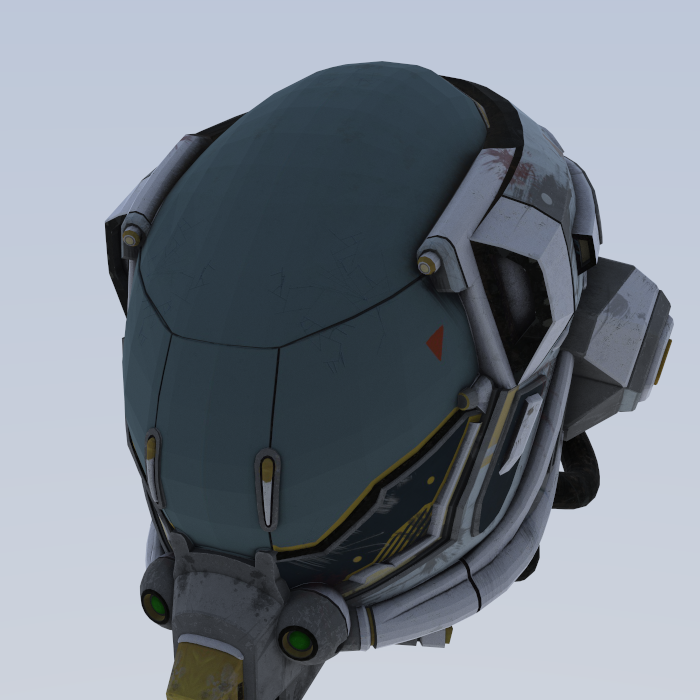
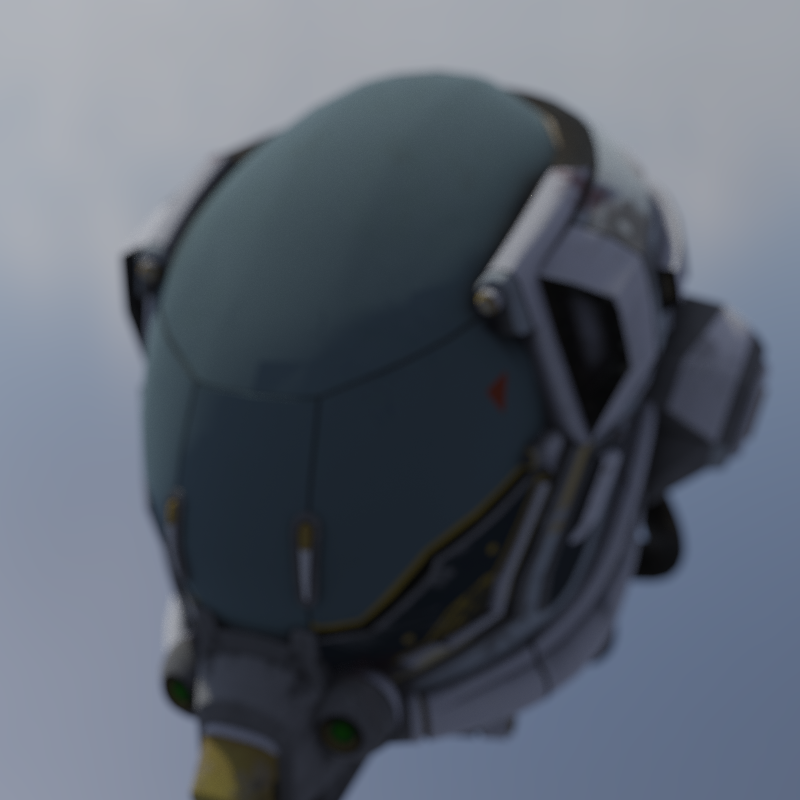
CLI depth-of-field overrides + env-lit glTF hero renders (#17)
Adds `--aperture` and `--focus-dist` flags to `prime`, overriding the scene
camera (the thin-lens DOF was already in the renderer; auto-framed glTF cameras
had no way to set it). Focus defaults to the look-at distance, so `--aperture`
alone puts the subject in focus and blurs the rest.

Re-renders the glTF gallery images as finished shots: the Khronos Damaged Helmet
and Duck under a Poly Haven HDRI environment (`--env`, importance-sampled on the
CPU) with depth of field. README documents the env + DOF workflow.

diff --git a/crates/prime-cli/src/main.rs b/crates/prime-cli/src/main.rs
@@ -90,6 +90,15 @@ struct Args {
     /// Rotate the environment map about the vertical axis (degrees).
     #[arg(long, default_value_t = 0.0)]
     env_rotation: Float,
+
+    /// Lens aperture for depth of field (0 = pinhole). Overrides the scene's
+    /// camera; larger values blur more.
+    #[arg(long)]
+    aperture: Option<Float>,
+
+    /// Focus distance for depth of field (defaults to the look-at distance).
+    #[arg(long)]
+    focus_dist: Option<Float>,
 }
 
 #[derive(Copy, Clone, Debug, ValueEnum)]
@@ -120,6 +129,14 @@ fn main() -> Result<()> {
     let aspect = args.width as Float / args.height as Float;
     let mut scene = load_scene(&args.scene, aspect)
         .with_context(|| format!("loading scene '{}'", args.scene))?;
+
+    // Optional camera overrides (e.g. depth of field on an auto-framed glTF).
+    if let Some(aperture) = args.aperture {
+        scene.camera.aperture = aperture;
+    }
+    if let Some(focus) = args.focus_dist {
+        scene.camera.focus_dist = Some(focus);
+    }
 
     if let Some(env_path) = &args.env {
         let env = load_env(env_path, args.env_intensity, args.env_rotation.to_radians())

diff --git a/README.md b/README.md
@@ -152,6 +152,8 @@ SCENE                     built-in (showcase, studio, rtweekend, sky, textured,
     --env <FILE.hdr>      equirectangular HDR environment (image-based lighting)
     --env-intensity <F>   scale env radiance                    [default: 1.0]
     --env-rotation <DEG>  spin the env about the vertical axis  [default: 0]
+    --aperture <F>        lens aperture for depth of field      [default: scene]
+    --focus-dist <F>      focus distance                        [default: look-at]
 ```
 
 ---
@@ -247,17 +249,23 @@ glTF metallic-roughness materials onto Prime's BSDFs, and decodes base-color
 textures. Prime's material model is intentionally small, so the mapping is an
 approximation (base color + metallic/roughness/emissive *factors* and the
 base-color *texture*; metallic-roughness/normal/emissive maps and transmission
-are not represented). Models are lit by a neutral sky gradient and auto-framed.
+are not represented). Models are auto-framed; pair them with an HDRI environment
+(`--env sky.hdr`) and depth of field (`--aperture`) for a finished look:
 
-The renders below are the [Khronos sample
+```bash
+prime DamagedHelmet.glb --env kloofendal.hdr --aperture 0.045 -s 1024 --tonemap reinhard
+```
+
+The renders below are [Khronos sample
 models](https://github.com/KhronosGroup/glTF-Sample-Models) (Damaged Helmet,
-Duck), path-traced on the GPU and validated against the CPU (RMSE 0.5–0.9% at
-256 spp). Sample assets aren't bundled — point Prime at your own `.glb`.
+Duck) under a [Poly Haven](https://polyhaven.com) HDRI with depth of field. (glTF
+also renders on the GPU, validated against the CPU at RMSE 0.5–0.9% @ 256 spp.)
+Sample assets aren't bundled — point Prime at your own files.
 
 <p align="center">
 <img src="docs/renders/gltf_helmet.png" width="340">
 <img src="docs/renders/gltf_duck.png" width="290">
-<br><i>glTF models path-traced on the GPU (RTX 5090): Damaged Helmet and Duck.</i></p>
+<br><i>glTF models (Damaged Helmet, Duck) under an HDRI environment with depth of field.</i></p>
 
 ---
 